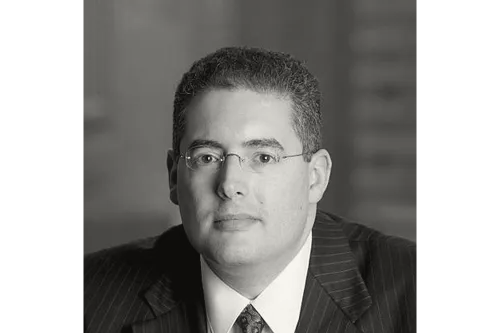
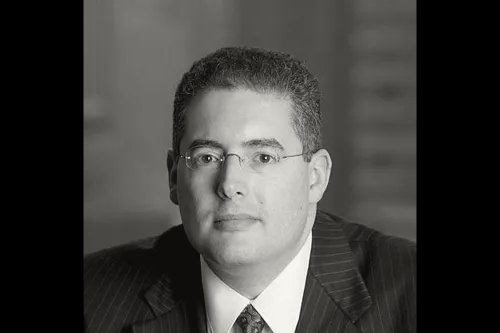
Add Bleich profile photo; replace placeholder with bMiBl.png

diff --git a/index.html b/index.html
@@ -712,6 +712,24 @@ h1, h2, h3, h4 {
   flex-direction: column;
   gap: 0.3rem;
 }
+.profile-photo--image {
+  background: none;
+  border: 1px solid var(--card-border);
+  overflow: hidden;
+  padding: 0;
+}
+.profile-photo--image img {
+  width: 100%;
+  height: 100%;
+  object-fit: cover;
+  object-position: center top;
+  display: block;
+  filter: grayscale(15%);
+  transition: filter 0.3s ease;
+}
+.profile-photo--image img:hover {
+  filter: grayscale(0%);
+}
 .profile-photo-label {
   font-family: 'IBM Plex Mono', monospace;
   font-size: 0.6rem;
@@ -1332,9 +1350,8 @@ blockquote cite {
   <div class="profile-cards reveal-stagger">
     <!-- Bleich Profile -->
     <div class="profile-card reveal">
-      <div class="profile-photo">
-        <svg viewBox="0 0 24 24"><path d="M20 21v-2a4 4 0 0 0-4-4H8a4 4 0 0 0-4 4v2"/><circle cx="12" cy="7" r="4"/></svg>
-        <span class="profile-photo-label">Insert Photo</span>
+      <div class="profile-photo profile-photo--image">
+        <img src="bMiBl.png" alt="Michael Edward Bleich" loading="lazy">
       </div>
       <div class="profile-info">
         <h3><a href="https://www.zoominfo.com/p/Michael-Bleich/12107508341" target="_blank" rel="noopener" title="ZoomInfo profile">Michael Edward Bleich</a></h3>
